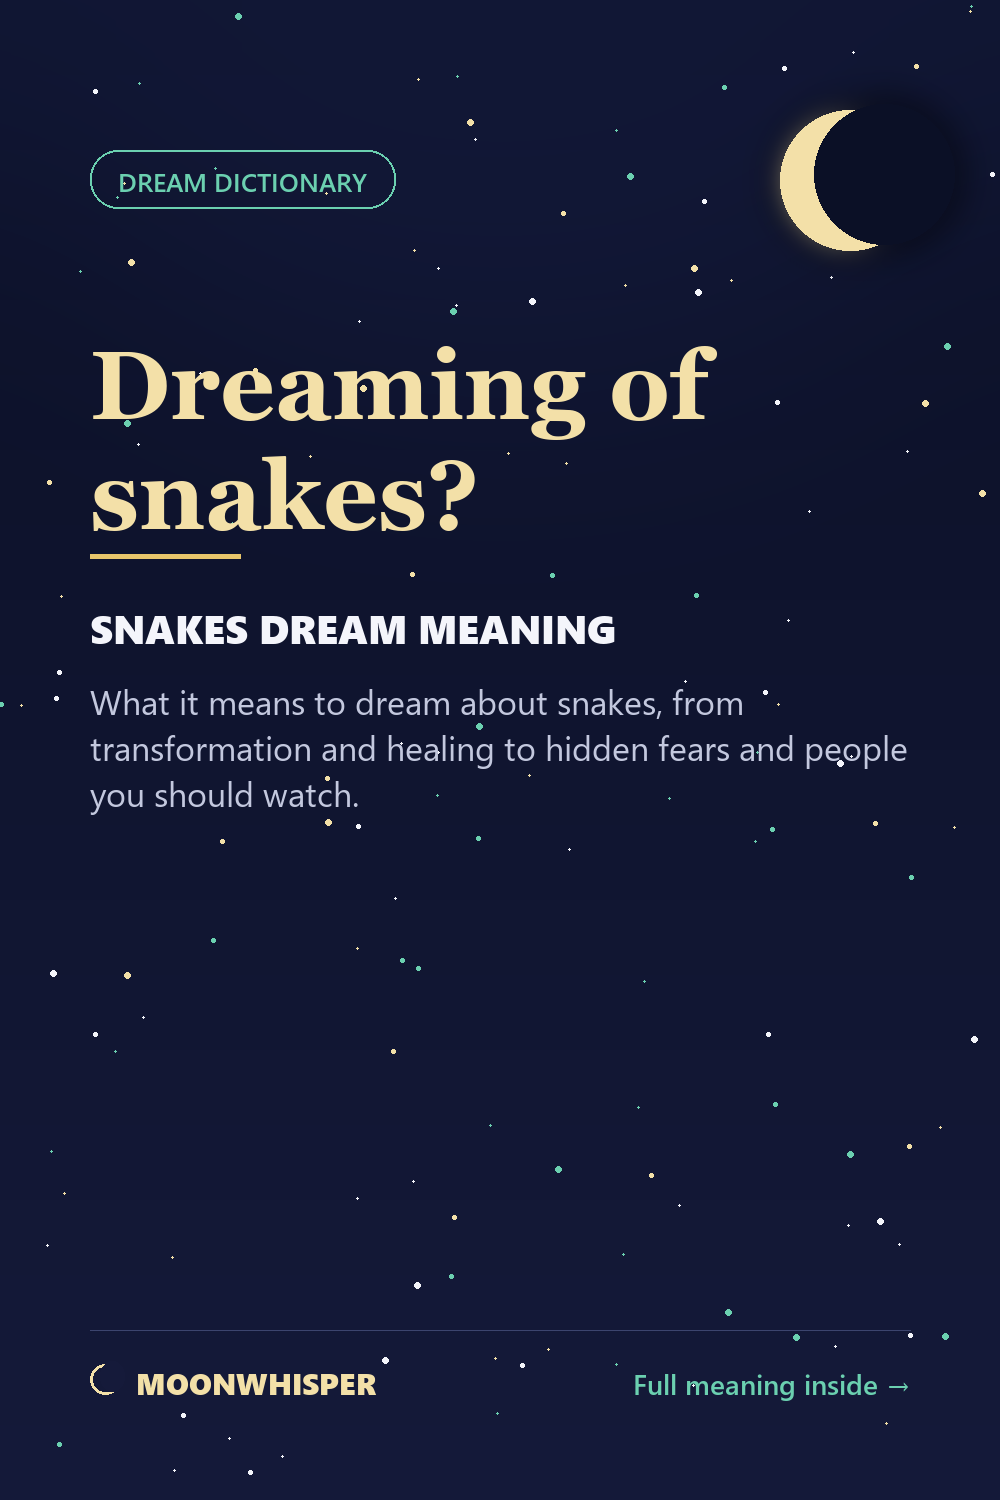
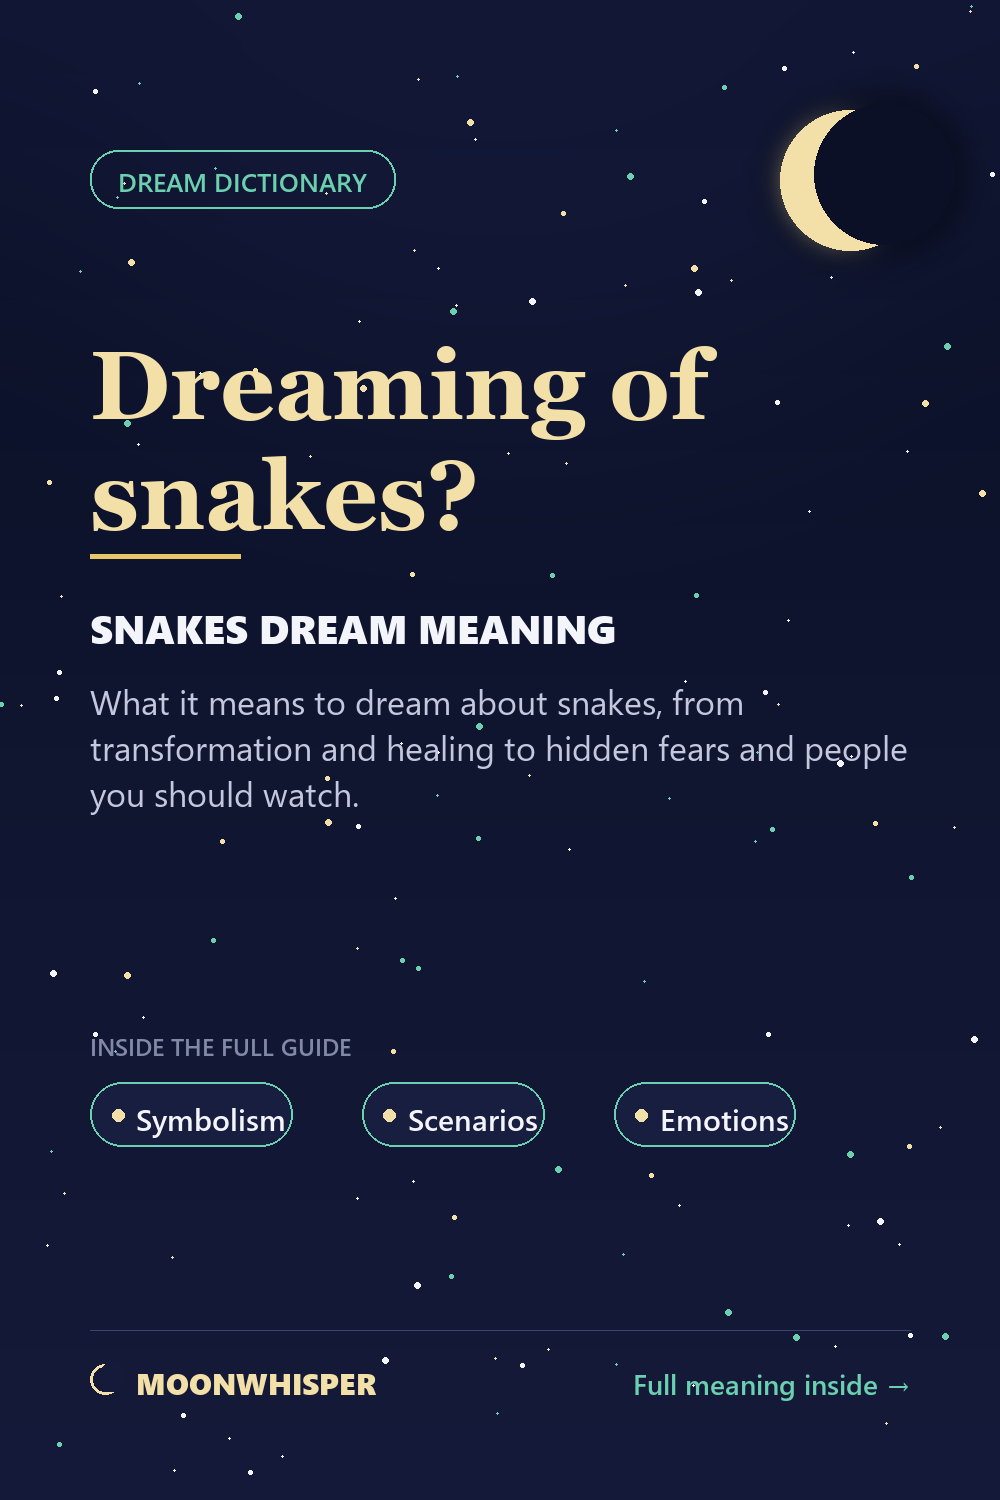
feat(pins): full Pinterest set (60 pins) + upload manifest + theme-chip design
Extends the pin generator to render all 60 posts (was 3 samples), adds
theme chips + "inside the full guide" band, and adds make_pin_manifest.py
producing UPLOAD_MANIFEST.csv (SEO title/description/link/board per pin).
Links use the live 200 URL. Prior generator kept in history (6bb6bb4).

diff --git a/scripts/make_pin_manifest.py b/scripts/make_pin_manifest.py
@@ -1,0 +1,70 @@
+# -*- coding: utf-8 -*-
+"""Build a Pinterest upload manifest (CSV) from post frontmatter + rendered pins.
+Columns: file, title, description, link, board, keywords  (Pinterest-ready).
+Run: python scripts/make_pin_manifest.py
+"""
+import os, re, csv
+
+ROOT = os.path.dirname(os.path.dirname(os.path.abspath(__file__)))
+POSTS = os.path.join(ROOT, "content", "posts")
+PINS = os.path.join(ROOT, "pins")
+BASE = "https://moonwhisper-hipower159-6132s-projects.vercel.app"  # live 200 URL
+
+def parse_fm(md):
+    m = re.match(r"^---\n(.*?)\n---\n", md, re.S)
+    fm = {"keywords": []}
+    if not m: return fm
+    body = m.group(1)
+    for k in ("title","description","category"):
+        mm = re.search(rf'^{k}:\s*"?(.*?)"?\s*$', body, re.M)
+        if mm: fm[k] = mm.group(1)
+    km = re.search(r'^keywords:\s*\[(.*?)\]', body, re.M | re.S)
+    if km:
+        fm["keywords"] = [x.strip().strip('"').strip("'") for x in km.group(1).split(",") if x.strip()]
+    return fm
+
+def board(cat, slug):
+    if slug.startswith("angel-number-"): return "Angel Numbers"
+    if slug.startswith("dream-about-"):  return "Dream Meanings"
+    return cat or "Moonwhisper"
+
+def pin_desc(fm, slug):
+    desc = fm.get("description","").rstrip(".")
+    kws = fm.get("keywords", [])[:5]
+    tags = " ".join("#"+re.sub(r"[^a-z0-9]","",k.lower()) for k in kws if k)
+    if slug.startswith("angel-number-"):
+        cta = "Tap for the full meaning — love, money, career & twin flame."
+    elif slug.startswith("dream-about-"):
+        cta = "Tap for the full meaning, common scenarios & what it says about you."
+    else:
+        cta = "Tap for the full guide."
+    return f"{desc}. {cta} {tags}".strip()
+
+def main():
+    rows = []
+    for f in sorted(os.listdir(POSTS)):
+        if not f.endswith(".md"): continue
+        slug = f[:-3]
+        pin = os.path.join(PINS, slug + ".png")
+        if not os.path.exists(pin): continue
+        fm = parse_fm(open(os.path.join(POSTS, f), encoding="utf-8").read())
+        title = fm.get("title", slug)
+        # Pinterest title <=100 chars
+        title = title if len(title) <= 100 else title[:97] + "..."
+        rows.append({
+            "file": f"pins/{slug}.png",
+            "title": title,
+            "description": pin_desc(fm, slug)[:500],
+            "link": f"{BASE}/posts/{slug}",
+            "board": board(fm.get("category",""), slug),
+            "keywords": ", ".join(fm.get("keywords", [])),
+        })
+    out = os.path.join(PINS, "UPLOAD_MANIFEST.csv")
+    with open(out, "w", newline="", encoding="utf-8-sig") as fh:
+        w = csv.DictWriter(fh, fieldnames=["file","title","description","link","board","keywords"])
+        w.writeheader(); w.writerows(rows)
+    print(f"manifest: {out}  ({len(rows)} pins)")
+    ang = sum(1 for r in rows if r['board']=='Angel Numbers')
+    print(f"  Angel Numbers: {ang} | Dream Meanings: {len(rows)-ang}")
+
+if __name__ == "__main__": main()

diff --git a/scripts/make_pins.py b/scripts/make_pins.py
@@ -97,7 +97,7 @@ def crescent(img):
 
 def make(slug, fm):
     title=fm.get("title",slug); desc=fm.get("description",""); cat=fm.get("category","")
-    hook, keyword = hook_and_keyword(slug, title, cat)
+    hook, keyword, themes = hook_and_keyword(slug, title, cat)
     img=bg(); d=ImageDraw.Draw(img)
     stars(d, sum(ord(c) for c in slug))
     crescent(img); d=ImageDraw.Draw(img)
@@ -124,6 +124,15 @@ def make(slug, fm):
     tf=SANS(34); tl=wrap(d,desc,tf,W-2*MX)[:4]
     for ln in tl:
         d.text((MX,y),ln,font=tf,fill=DIM); y+=46
+    # "at a glance" theme chips (fills lower third, adds keywords)
+    ly=1030
+    lf=SANS_SB(24); d.text((MX,ly),"INSIDE THE FULL GUIDE",font=lf,fill=FAINT)
+    ly+=52; cx=MX; chf=SANS_SB(30)
+    for th in themes:
+        cw=d.textlength(th,font=chf)
+        d.rounded_rectangle([cx,ly,cx+cw+52,ly+64],32,fill=(255,255,255,0) if False else (24,30,64),outline=JADE,width=2)
+        d.ellipse([cx+22,ly+27,cx+34,ly+39],fill=GOLD_SOFT)
+        d.text((cx+46,ly+16),th,font=chf,fill=TEXT); cx+=cw+52+46+24
     # footer brand + CTA
     fy=H-140
     d.line([MX,fy-30,W-MX,fy-30],fill=(255,255,255,30) if False else (60,68,110),width=1)
